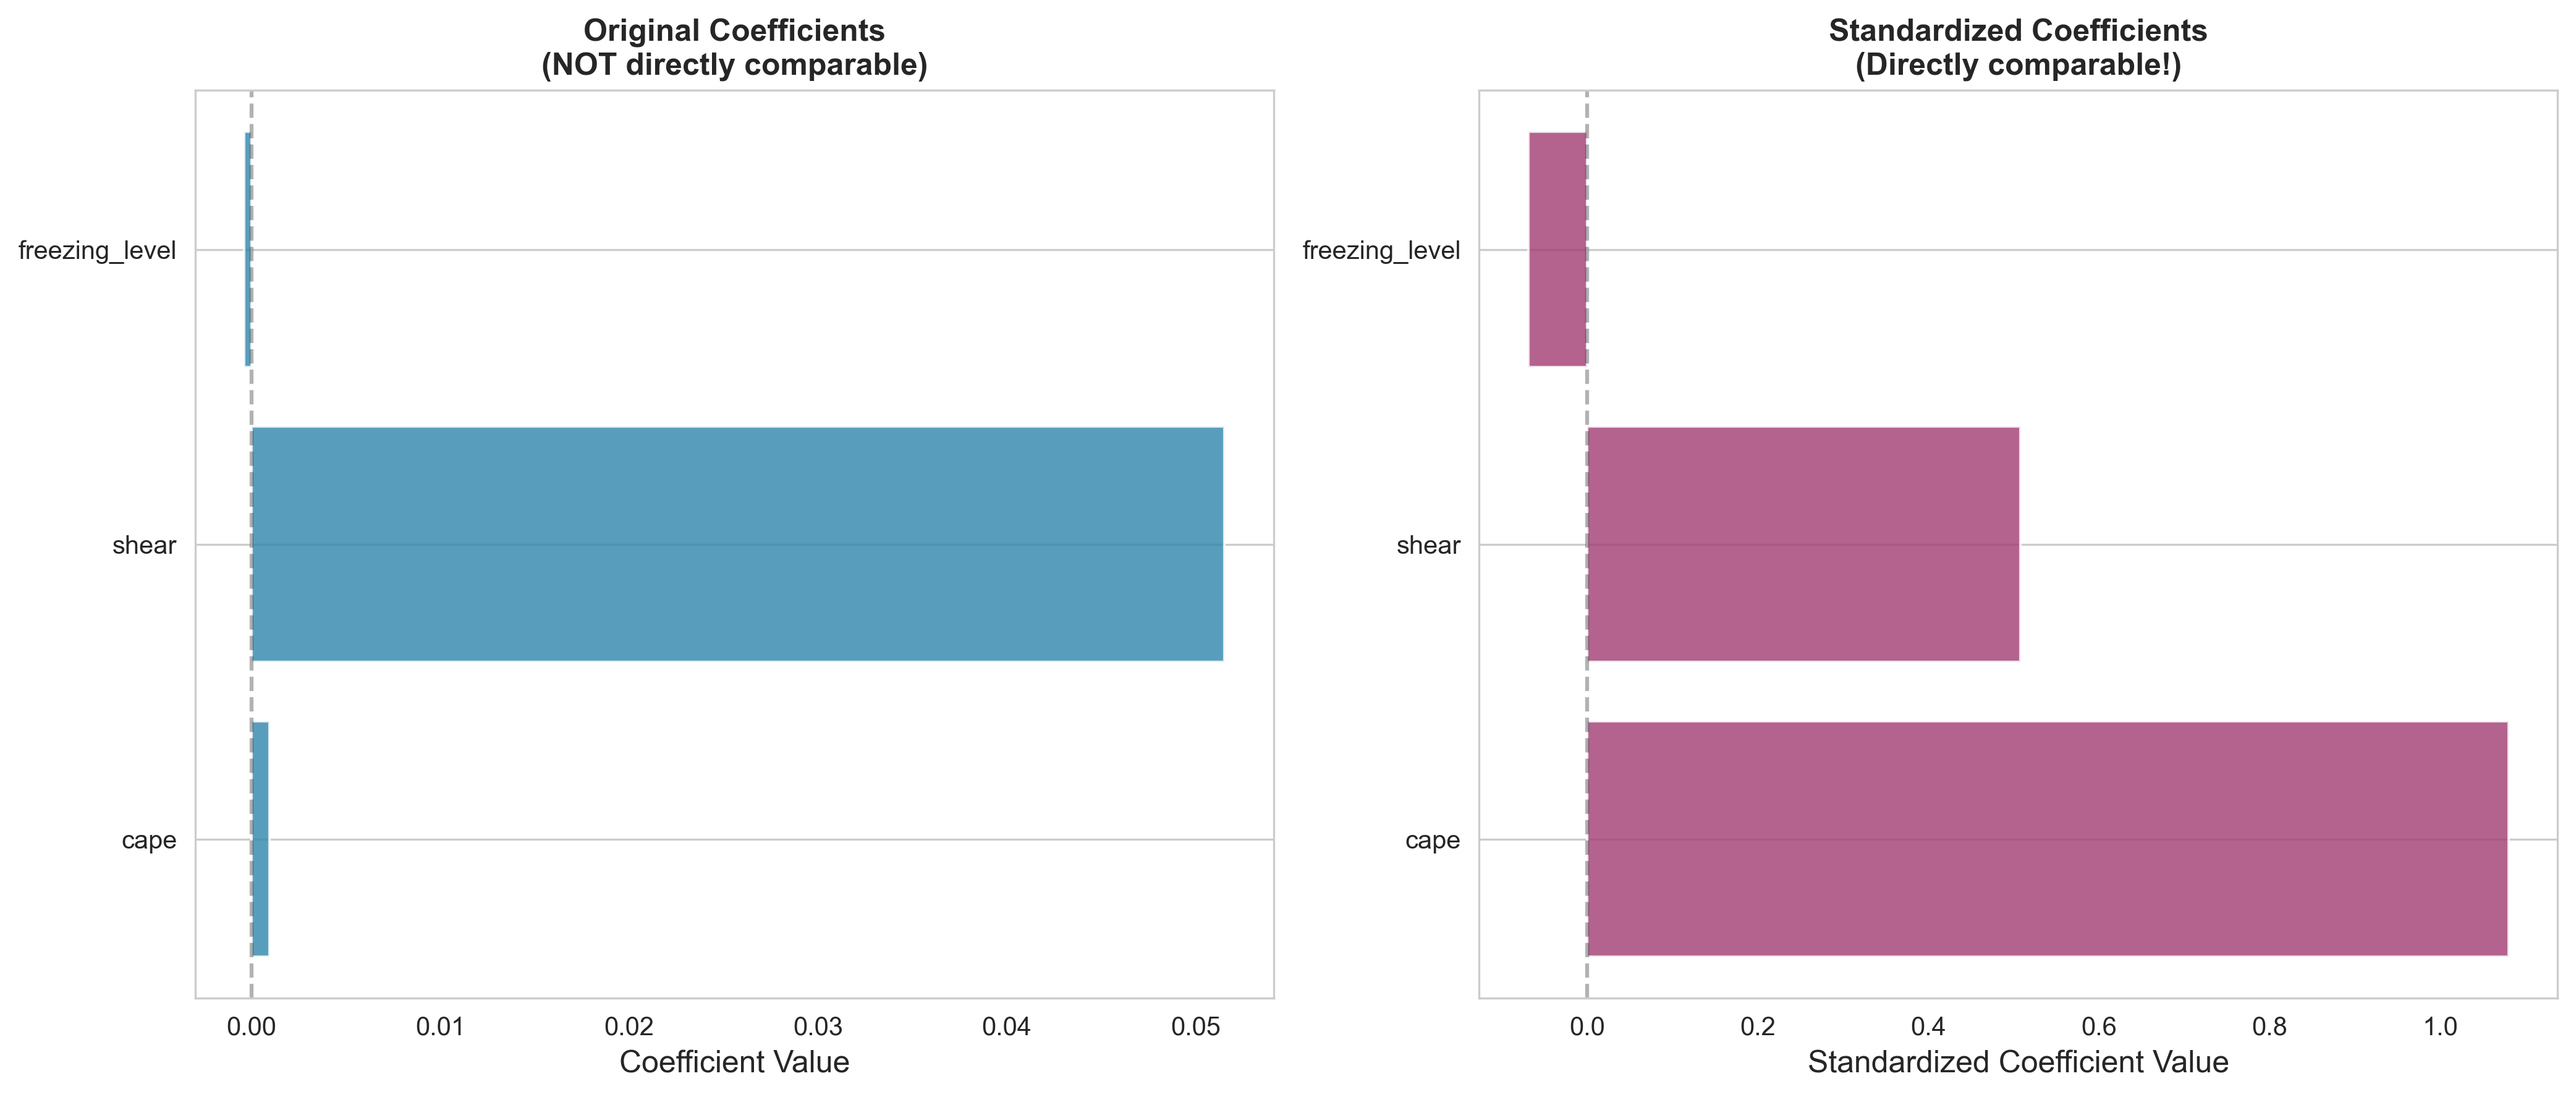
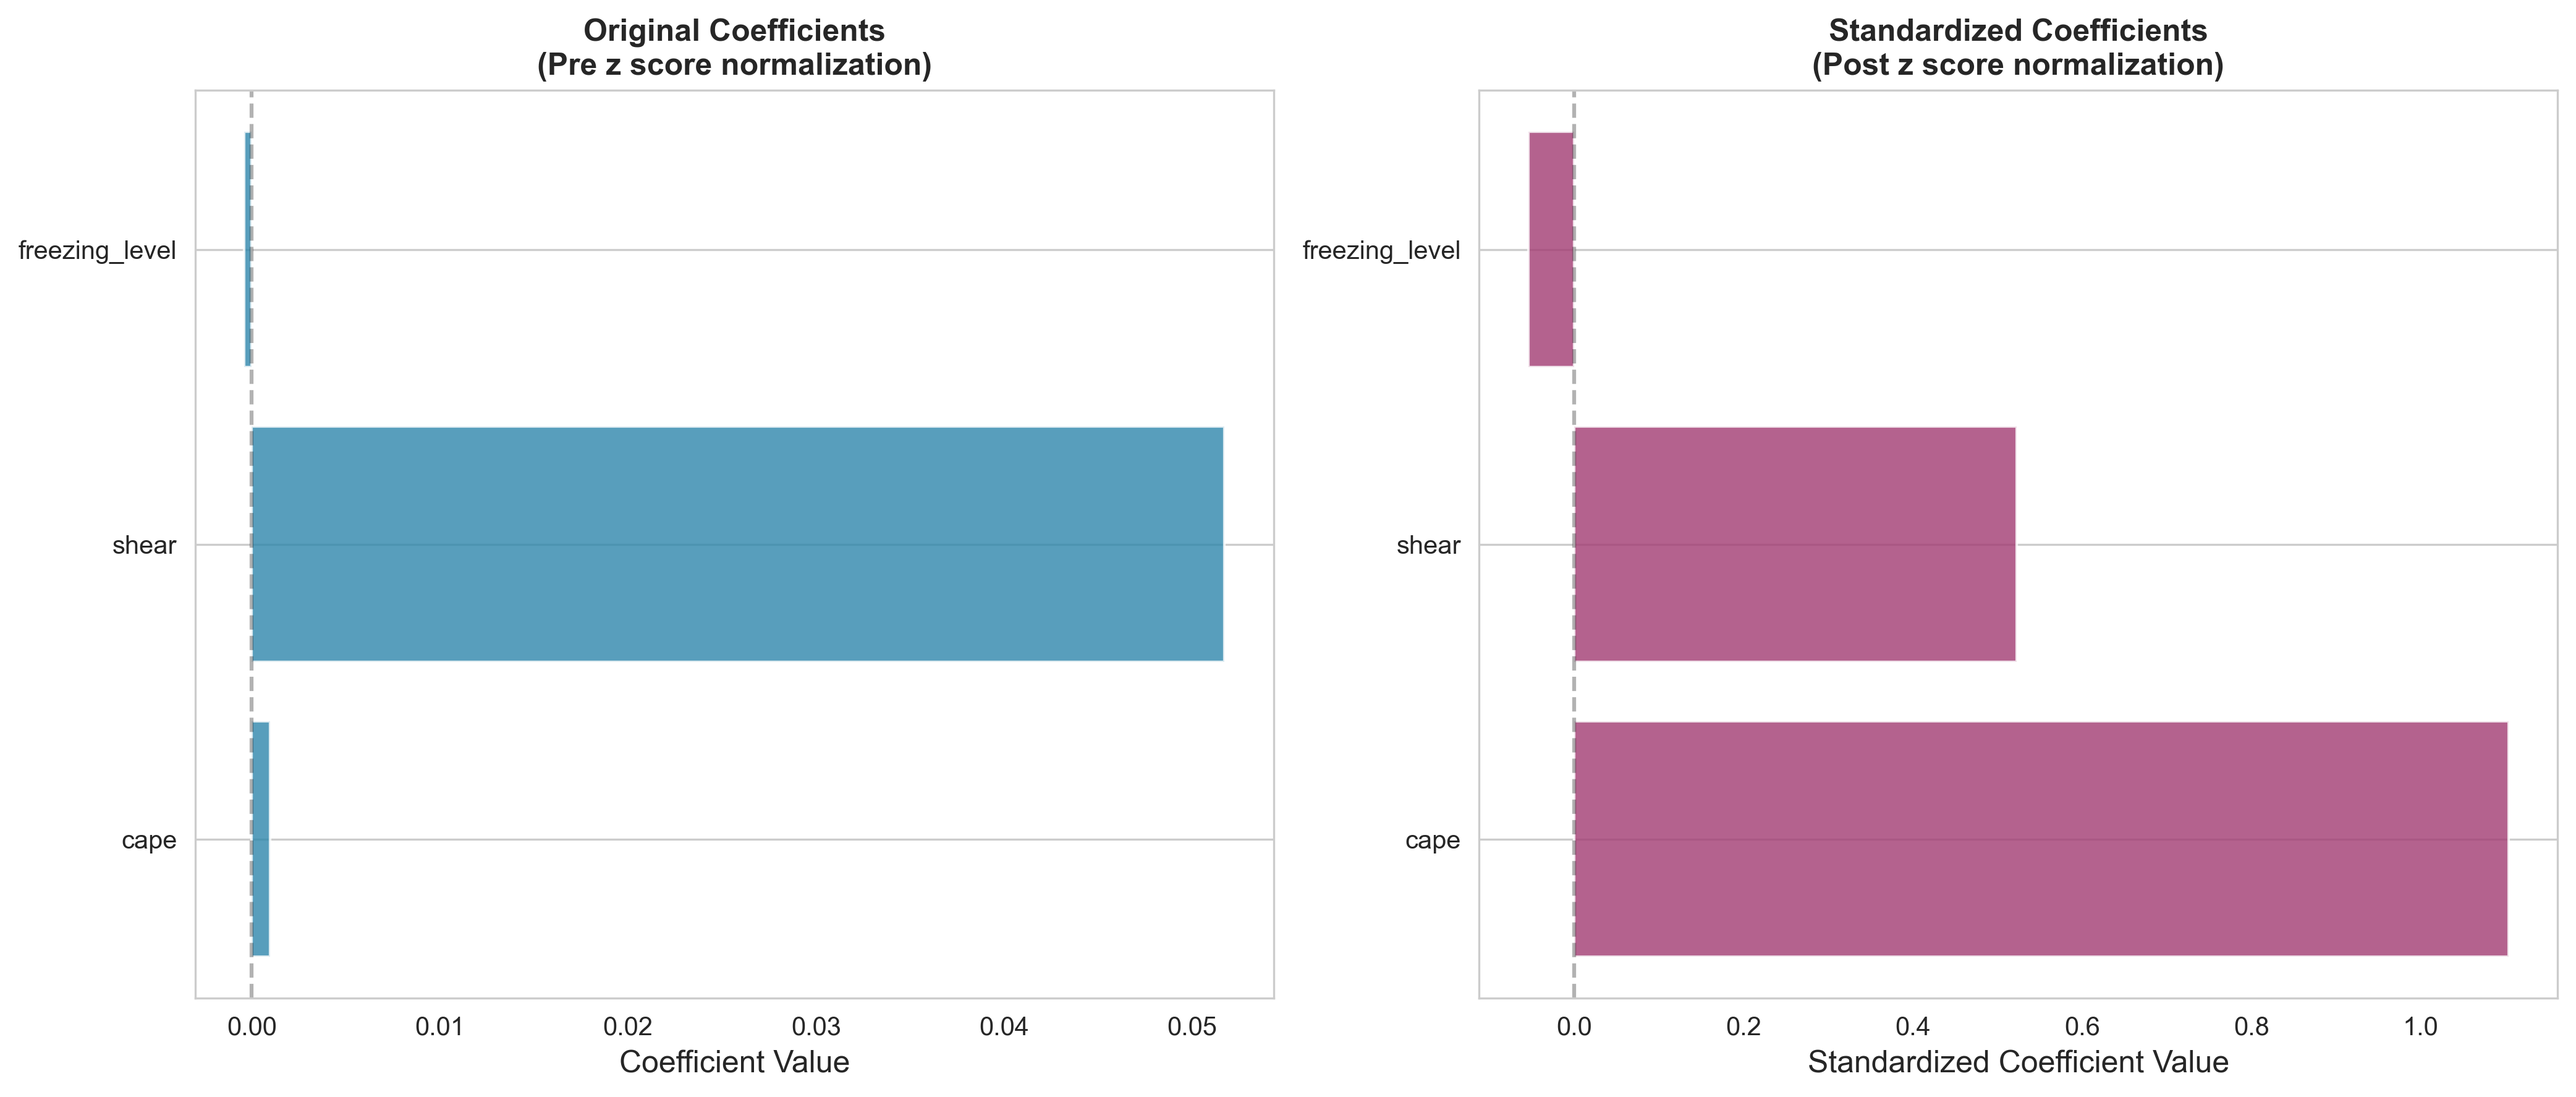
updates

diff --git a/HailAnalysis.py b/HailAnalysis.py
@@ -372,7 +372,7 @@ fig, axes = plt.subplots(1, 2, figsize=(14, 6))
 coef_original = model_full_original.coef_[0]
 axes[0].barh(features_full, coef_original, color='#2E86AB', alpha=0.8)
 axes[0].set_xlabel('Coefficient Value', fontsize=12)
-axes[0].set_title('Original Coefficients\n(NOT directly comparable)', fontsize=12, fontweight='bold')
+axes[0].set_title('Original Coefficients\n(Pre z score normalization)', fontsize=12, fontweight='bold')
 axes[0].axvline(x=0, color='black', linestyle='--', alpha=0.3)
 axes[0].grid(axis='x', alpha=0.3)
 
@@ -380,7 +380,7 @@ axes[0].grid(axis='x', alpha=0.3)
 coef_standardized = model_full_scaled.coef_[0]
 axes[1].barh(features_full, coef_standardized, color='#A23B72', alpha=0.8)
 axes[1].set_xlabel('Standardized Coefficient Value', fontsize=12)
-axes[1].set_title('Standardized Coefficients\n(Directly comparable!)', fontsize=12, fontweight='bold')
+axes[1].set_title('Standardized Coefficients\n(Post z score normalization)', fontsize=12, fontweight='bold')
 axes[1].axvline(x=0, color='black', linestyle='--', alpha=0.3)
 axes[1].grid(axis='x', alpha=0.3)
 
